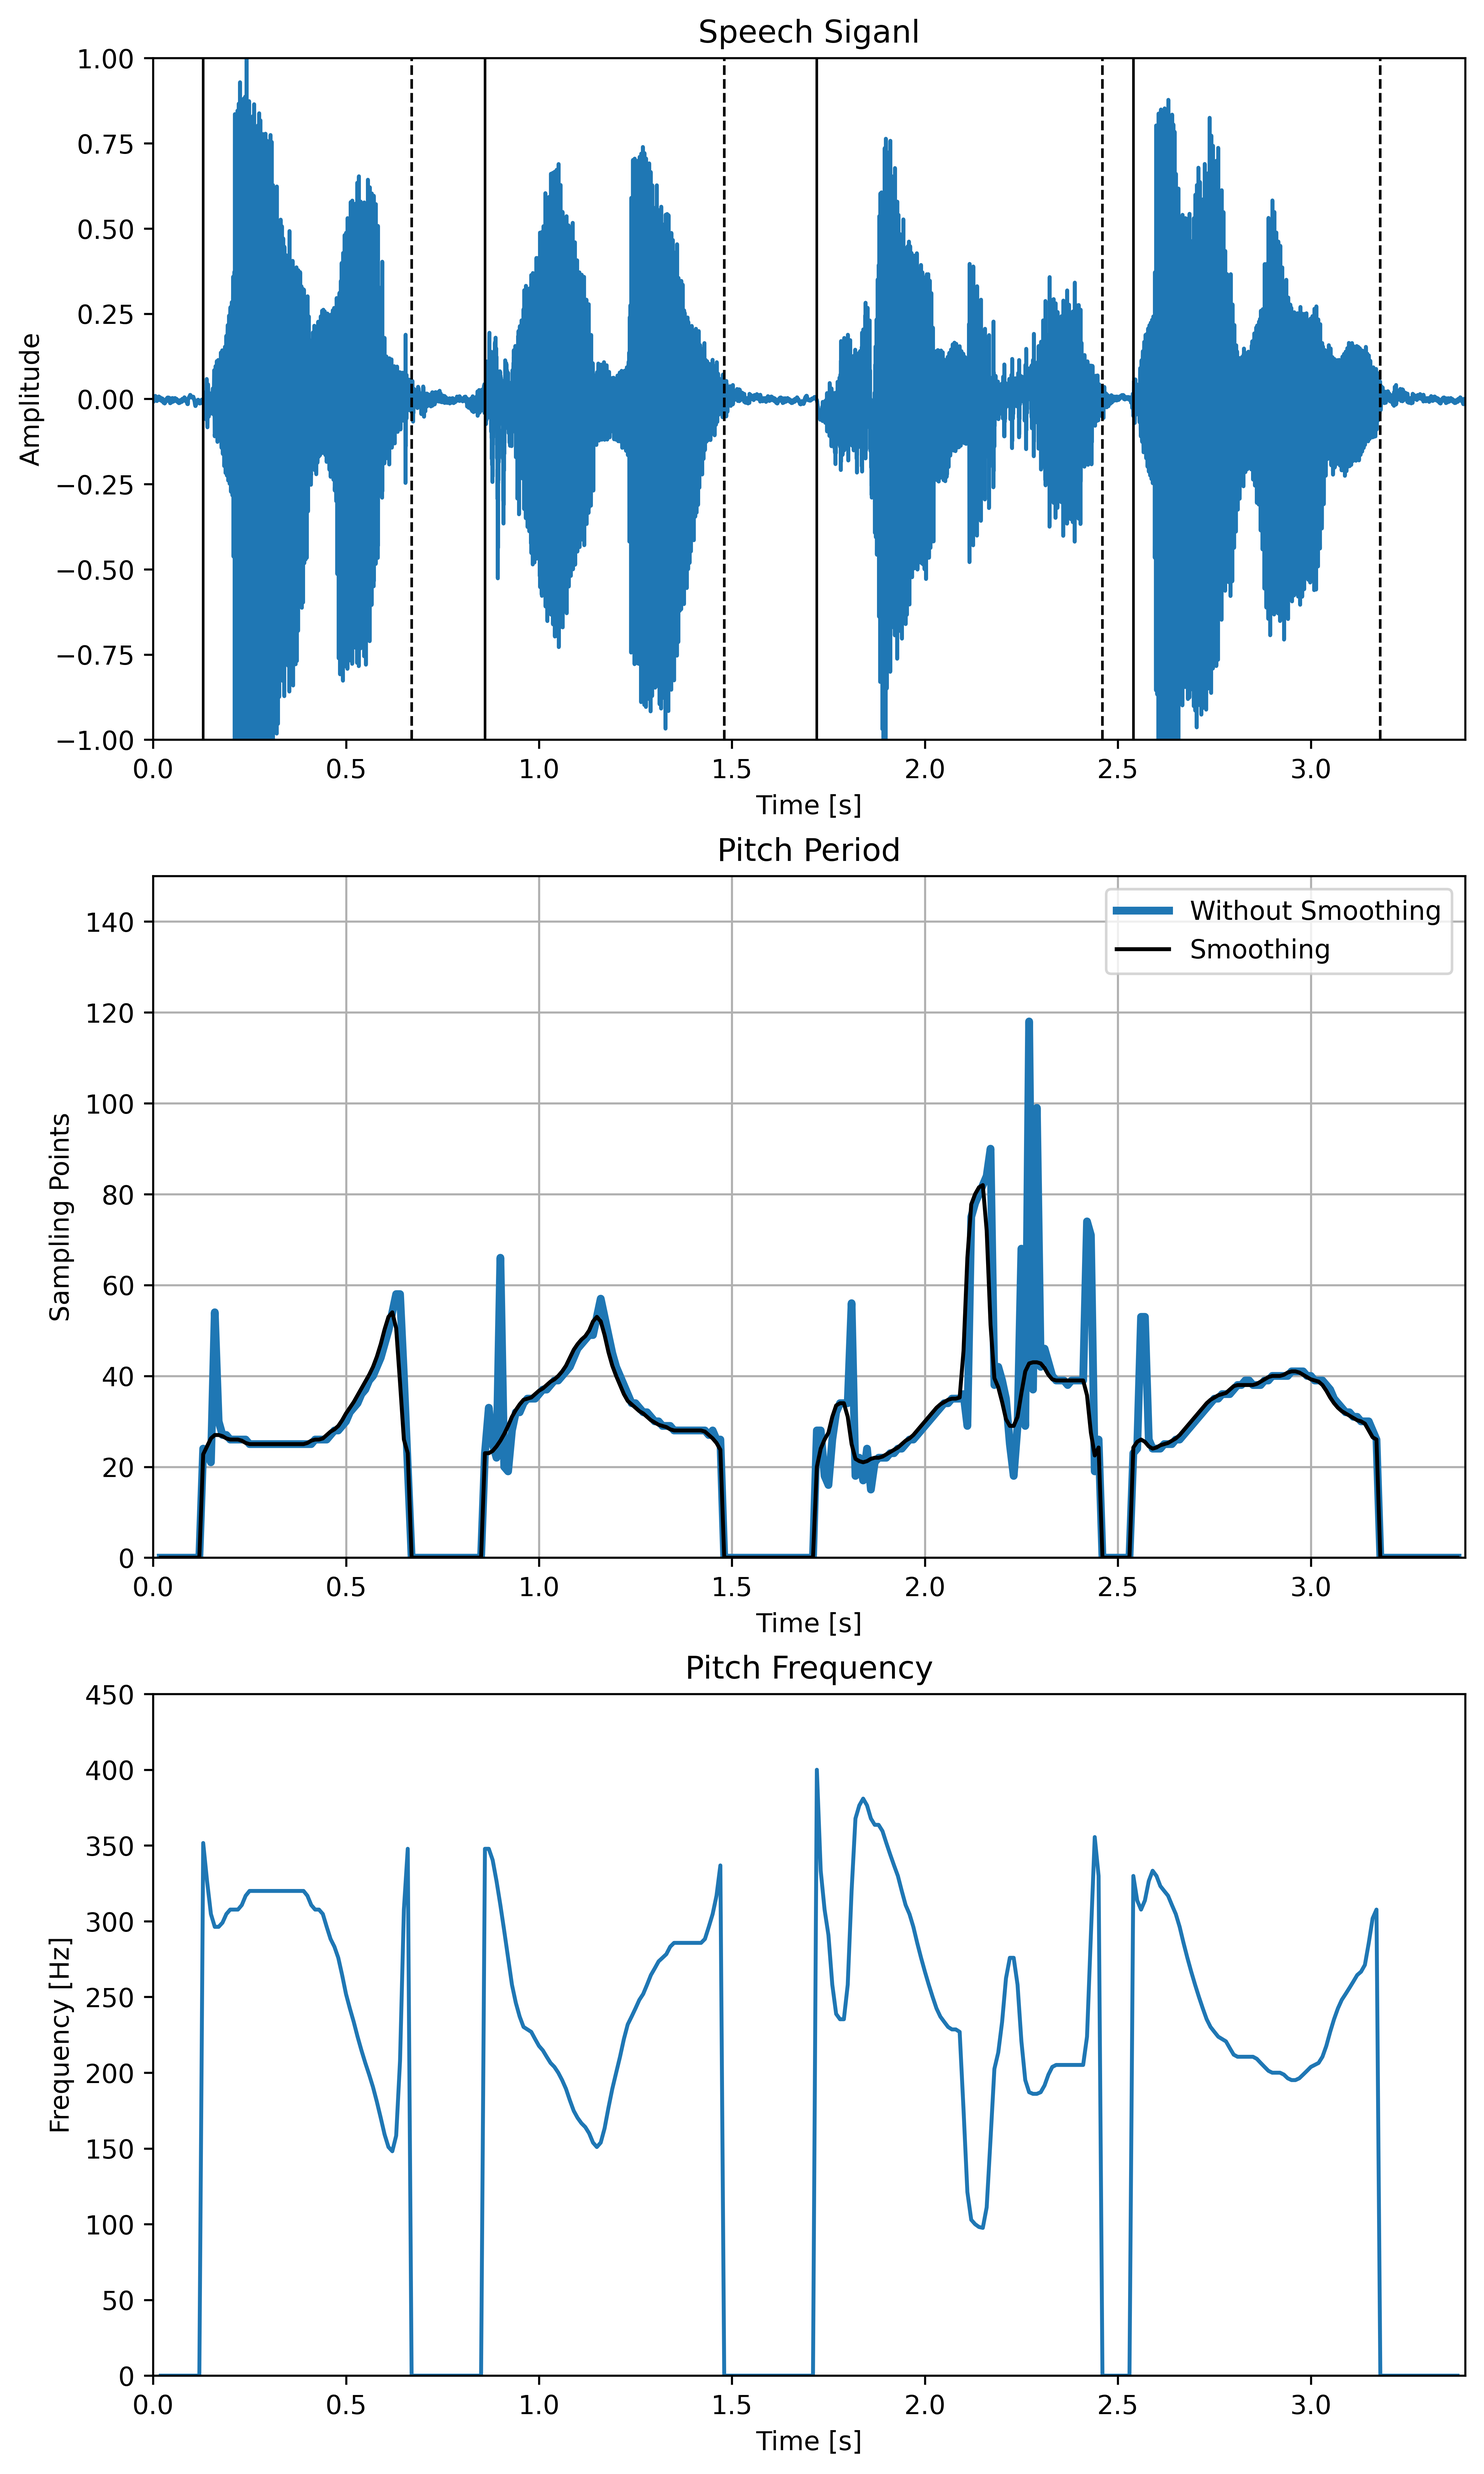
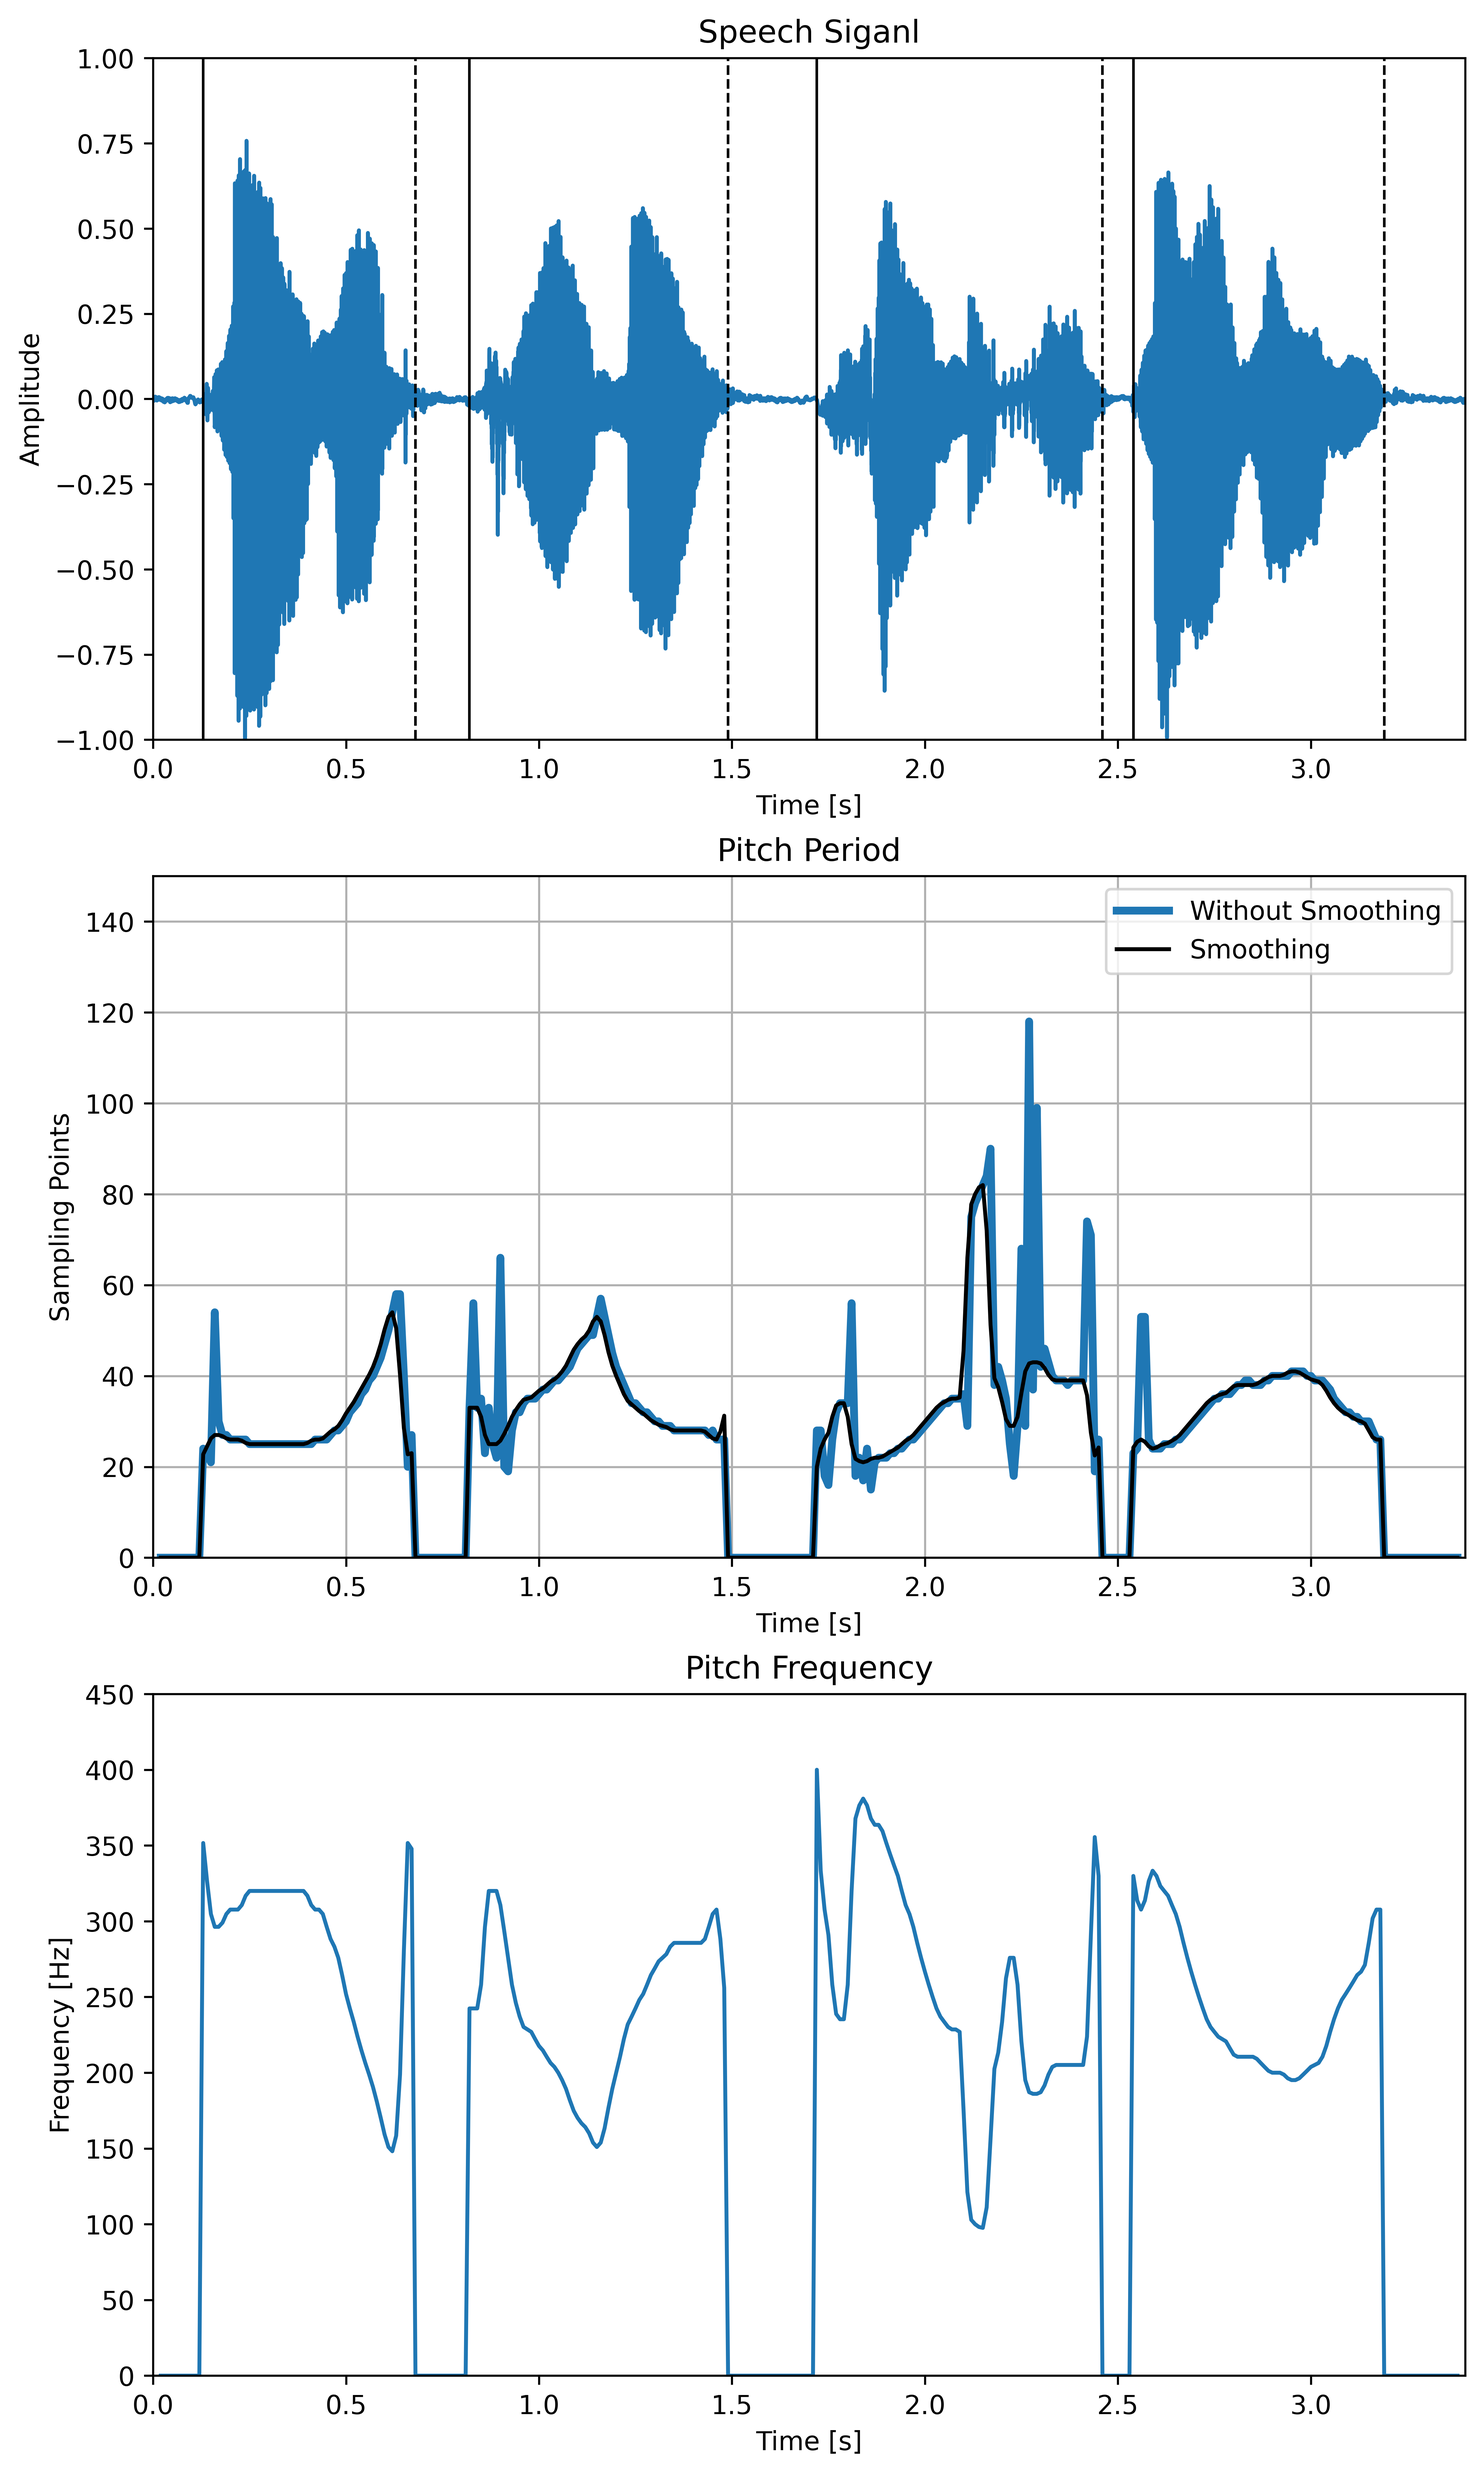
smoothing cepstrum pitch detection

diff --git a/Chapter8_PitchDetection/pr8_2_2.py b/Chapter8_PitchDetection/pr8_2_2.py
@@ -15,7 +15,7 @@ if __name__ == '__main__':
 	speech = Speech()
 	x, fs = speech.audioread(filename, 8000)
 	x = x - np.mean(x)  # DC
-	x = x / np.max(x)  # normalized
+	x = x / np.max(np.abs(x))  # normalized
 	N = len(x)
 	time = np.arange(N) / fs
 	wnd = np.hamming(wlen)  # window function
